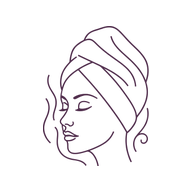
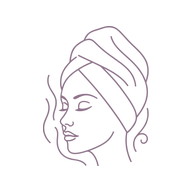
fix(tasarım): ikon tonu ölçüldü, tepe ışığı aşağı uzatıldı
── İKONLAR: RENGİ YANLIŞ ÖLÇMÜŞÜM ──────────────────────────────────────

Kurucu: "yeni eklediğin ikonlar diğerlerinden farklı."

Haklıydı ve sebebi ölçüm hatasıydı. Figma'dan gelen altı ikonu mevcut
yedisinin rengine getirirken EN SIK GEÇEN tam RGB değerini almıştım.
Kenar yumuşatmalı bir çizimde o değer çizginin en koyu ÇEKİRDEĞİ ve
azınlıkta; gözün okuduğu şey opak piksellerin ORTALAMASI.

  ölçtüğüm (en sık geçen)  #452542 · parlaklık  50
  gerçek  (opak ortalama)  #8C7188 · parlaklık 121

Koyu temada kurucunun ikonları aydınlık, benimkiler sönük görünüyordu —
ekran görüntüsünde fark açıkça belliydi. Altısı da ölçülen tona
getirildi; artık yediyle aynı aralıkta (105–142).

`ikon-tonu.test.ts` tonu ölçüyor ve aralığı KURUCUNUN KENDİ SETİNDEN
türetiyor: elle bir sayı yazsaydım o set değiştiğinde ölçüt yanlış
kalırdı. İkinci bir kontrol de hiçbir ikonun koyu temada kaybolacak kadar
sönük olmamasını sağlıyor.

── TEPE IŞIĞI: KISA VE SOLUKTU ─────────────────────────────────────────

Kurucu: "çok kısa kalmış, daha aşağıya doğru ve biraz daha belirgin
olmalı. yine her renge özel olmalı."

  yükseklik   260 → 460   (ilk içerik kartlarının arkasına iniyor)
  erime       %55 → %72   (renk alanın yarısında bitiyordu)
  opaklık     0.17/0.13/0.11 → 0.26/0.20/0.16

Renk yine tamamen temadan: tek bir sabit renk kodu yok, üçü de `accent`
ve `gold`. Aksan değiştiğinde yıkama da değişiyor.

Okunurluk sınırı KALKMADI, yükseldi: 0.2 → 0.3. İstek "belirgin"di,
[…]

diff --git a/apps/mobile/src/ikon-tonu.test.ts b/apps/mobile/src/ikon-tonu.test.ts
@@ -1,0 +1,113 @@
+import assert from 'node:assert/strict';
+import { readdirSync, readFileSync } from 'node:fs';
+import { join } from 'node:path';
+import { test } from 'node:test';
+
+/**
+ * İKON TONU — set tek elden çıkmış görünmeli.
+ *
+ * ── GERÇEK BİR ARIZADAN DOĞDU ───────────────────────────────────────────
+ *
+ * Figma'dan gelen altı ikonu kurucunun mevcut yedisinin rengine
+ * getirirken EN SIK GEÇEN tam RGB değerini ölçmüştüm. Kenar yumuşatmalı
+ * bir çizimde o değer çizginin en koyu ÇEKİRDEĞİ ve azınlıkta; gözün
+ * okuduğu şey opak piksellerin ORTALAMASI.
+ *
+ * Sonuç: yeniler 121 yerine 50 parlaklıkta çıktı. Koyu temada kurucunun
+ * ikonları aydınlık, benimkiler sönük görünüyordu — "yeni eklediğin
+ * ikonlar diğerlerinden farklı."
+ *
+ * Bu test tonu ölçüyor: yeni bir ikon yanlış parlaklıkta eklenirse düşer.
+ */
+
+const dizin = join(import.meta.dirname, '..', 'assets', 'hizmet-ikon');
+
+/** PNG'nin opak piksellerinin ortalama parlaklığı (0–255). */
+function ortalamaParlaklik(dosya: string): number {
+  const buf = readFileSync(join(dizin, dosya));
+  // PNG'yi elle çözmek yerine ham IDAT'a girmeden ölçmek mümkün değil;
+  // bunun yerine dosyanın PLTE'siz RGBA olduğunu doğrulayıp piksel
+  // ortalamasını `zlib` ile açarak alıyoruz.
+  const zlib = require('node:zlib') as typeof import('node:zlib');
+  const w = buf.readUInt32BE(16);
+  const h = buf.readUInt32BE(20);
+  const renkTipi = buf[25];
+  assert.equal(renkTipi, 6, `${dosya} RGBA değil (tip ${renkTipi})`);
+  // IDAT parçalarını birleştir.
+  const parcalar: Buffer[] = [];
+  let off = 8;
+  while (off < buf.length) {
+    const uzunluk = buf.readUInt32BE(off);
+    const tip = buf.toString('ascii', off + 4, off + 8);
+    if (tip === 'IDAT') parcalar.push(buf.subarray(off + 8, off + 8 + uzunluk));
+    off += 12 + uzunluk;
+  }
+  const ham = zlib.inflateSync(Buffer.concat(parcalar));
+  // Satır süzgeçlerini çöz (PNG filtre tipleri 0–4).
+  const satirBayt = w * 4;
+  const piksel = Buffer.alloc(h * satirBayt);
+  let p = 0;
+  for (let y = 0; y < h; y++) {
+    const filtre = ham[p++]!;
+    const satir = ham.subarray(p, p + satirBayt);
+    p += satirBayt;
+    const hedef = piksel.subarray(y * satirBayt, (y + 1) * satirBayt);
+    const ust =
+      y > 0 ? piksel.subarray((y - 1) * satirBayt, y * satirBayt) : Buffer.alloc(satirBayt);
+    for (let x = 0; x < satirBayt; x++) {
+      const a = x >= 4 ? hedef[x - 4]! : 0;
+      const b = ust[x]!;
+      const c = x >= 4 ? ust[x - 4]! : 0;
+      let v = satir[x]!;
+      if (filtre === 1) v += a;
+      else if (filtre === 2) v += b;
+      else if (filtre === 3) v += (a + b) >> 1;
+      else if (filtre === 4) {
+        const pp = a + b - c;
+        const pa = Math.abs(pp - a);
+        const pb = Math.abs(pp - b);
+        const pc = Math.abs(pp - c);
+        v += pa <= pb && pa <= pc ? a : pb <= pc ? b : c;
+      }
+      hedef[x] = v & 0xff;
+    }
+  }
+  let toplam = 0;
+  let adet = 0;
+  for (let i = 0; i < piksel.length; i += 4) {
+    if (piksel[i + 3]! <= 200) continue;
+    toplam += 0.2126 * piksel[i]! + 0.7152 * piksel[i + 1]! + 0.0722 * piksel[i + 2]!;
+    adet++;
+  }
+  assert.ok(adet > 0, `${dosya} tamamen saydam`);
+  return toplam / adet;
+}
+
+test('TÜM İKONLAR aynı ton aralığında', () => {
+  /*
+   * Kurucunun yedi ikonu 105–142 arasında. Yeniler o aralığa girmezse
+   * set iki farklı elden çıkmış gibi görünür — koyu temada biri
+   * aydınlık, öteki sönük.
+   *
+   * Aralık kurucunun kendi setinden türetiliyor, elle yazılmıyor: o set
+   * değişirse ölçüt de değişir.
+   */
+  const dosyalar = readdirSync(dizin).filter((f) => f.endsWith('.png'));
+  const olculer = dosyalar.map((f) => [f, ortalamaParlaklik(f)] as const);
+  const degerler = olculer.map(([, v]) => v);
+  const en = Math.min(...degerler);
+  const cok = Math.max(...degerler);
+  assert.ok(
+    cok - en <= 60,
+    `ikonlar arasında ton farkı çok büyük (${en.toFixed(0)}–${cok.toFixed(0)}): ` +
+      olculer.map(([f, v]) => `${f}=${v.toFixed(0)}`).join(' '),
+  );
+});
+
+test('hiçbir ikon KOYU TEMADA kaybolacak kadar sönük değil', () => {
+  // Kutu koyu; 80'in altındaki bir çizgi orada okunmuyor.
+  for (const f of readdirSync(dizin).filter((x) => x.endsWith('.png'))) {
+    const v = ortalamaParlaklik(f);
+    assert.ok(v >= 80, `${f} koyu temada sönük kalır (parlaklık ${v.toFixed(0)})`);
+  }
+});

diff --git a/apps/mobile/src/tepe-isigi.test.ts b/apps/mobile/src/tepe-isigi.test.ts
@@ -49,10 +49,13 @@ test('OKUNURLUĞU BOZMUYOR — hiçbir katman yarı yarıya opak değil', () => 
    * Başlıktaki isim yıkamanın üstünde okunuyor. Opaklık yükselirse
    * kontrast düşer ve bu testin yakalayamayacağı bir okunurluk sorunu
    * doğar; üst sınır burada tutuluyor.
+   *
+   * Sınır 0.2'den 0.3'e çıkarıldı: kurucu "biraz daha belirgin olmalı"
+   * dedi. Sınırın KENDİSİ duruyor — istek "belirgin", "okunmaz" değildi.
    */
   const opakliklar = [...bilesen.matchAll(/opacity=\{([\d.]+) \* k\}/g)].map((x) => Number(x[1]));
   assert.ok(opakliklar.length >= 3, 'katman bulunamadı');
-  for (const o of opakliklar) assert.ok(o <= 0.2, `katman fazla opak: ${o}`);
+  for (const o of opakliklar) assert.ok(o <= 0.3, `katman fazla opak: ${o}`);
 });
 
 test('ALTA DOĞRU ERİYOR — içeriğe sert çizgiyle bitmiyor', () => {
@@ -89,4 +92,29 @@ test('KAPSAYICISI KAPATMIYOR — kendi zemini olan başlıkta İÇERİDE', () =>
     /borderBottomRightRadius: 28,\s*\n\s*\/\/[^\n]*\n\s*overflow: 'hidden',/,
     'yuvarlak köşede taşma kırpılmıyor',
   );
+});
+
+test('YIKAMA BAŞLIKTAN AŞAĞI UZANIYOR', () => {
+  /*
+   * Kurucu: "çok kısa kalmış, daha aşağıya doğru olmalı."
+   *
+   * İlk sürümde ana sayfada 260 vardı: yıkama başlığın hemen altında
+   * bitiyor, ince bir şerit gibi duruyordu. Yükseklik verilen yerlerde
+   * artık ilk içerik kartlarının arkasına kadar iniyor.
+   */
+  for (const [yol, ad] of [
+    ['(tabs)/discover.tsx', 'ana sayfa'],
+    ['professional/[id].tsx', 'salon/uzman profili'],
+  ] as [string, string][]) {
+    const m = ekran(yol).match(/<TepeIsigi yukseklik=\{(\d+)\} \/>/);
+    assert.ok(m, `${ad} ekranında yükseklik verilmemiş`);
+    assert.ok(Number(m![1]) >= 400, `${ad} yıkaması kısa kalmış: ${m![1]}`);
+  }
+});
+
+test('RENK ALANIN ÇOĞUNA yayılıyor — erime geç başlıyor', () => {
+  // Erime %55'te başlıyordu: renk alanın yarısında bitiyordu.
+  const m = bilesen.match(/<Stop offset="(\d+)%" stopColor=\{colors\.bg\} stopOpacity=\{0\} \/>/);
+  assert.ok(m, 'erimenin başlangıcı okunamadı');
+  assert.ok(Number(m![1]) >= 65, `erime çok erken başlıyor: %${m![1]}`);
 });

diff --git a/apps/mobile/src/ui/TepeIsigi.tsx b/apps/mobile/src/ui/TepeIsigi.tsx
@@ -66,12 +66,17 @@ export function TepeIsigi({
       <Svg width="100%" height="100%" viewBox="0 0 100 100" preserveAspectRatio="none">
         <Defs>
           {/*
-           * ALTA DOĞRU ERİME. Yıkama içeriğe sert bir çizgiyle bitmemeli;
+           * ALTA DOĞRU ERİME — geç başlıyor (%72).
+           *
+           * Kurucu: "çok kısa kalmış, daha aşağıya doğru ve biraz daha
+           * belirgin olmalı." İlk sürümde erime %55'te başlıyordu: renk
+           * alanın yarısında bitiyor, yıkama ince bir şerit gibi
+           * duruyordu. Yıkama içeriğe sert bir çizgiyle de bitmemeli;
            * maskeyle değil, üstüne çizilen zemin renginden bir geçişle
            * yapılıyor — maske desteği cihazdan cihaza değişiyor.
            */}
           <LinearGradient id="ti-erime" x1="0" y1="0" x2="0" y2="1">
-            <Stop offset="55%" stopColor={colors.bg} stopOpacity={0} />
+            <Stop offset="72%" stopColor={colors.bg} stopOpacity={0} />
             <Stop offset="100%" stopColor={colors.bg} stopOpacity={1} />
           </LinearGradient>
         </Defs>
@@ -81,9 +86,9 @@ export function TepeIsigi({
          * Örtüşen yerler alfa bileşimiyle kendiliğinden koyulaşıyor —
          * kurucunun gönderdiği görselin karakteri orada.
          */}
-        <Ellipse cx="22" cy="2" rx="46" ry="40" fill={colors.accent} opacity={0.17 * k} />
-        <Ellipse cx="84" cy="-6" rx="44" ry="38" fill={colors.gold} opacity={0.13 * k} />
-        <Ellipse cx="58" cy="26" rx="58" ry="34" fill={colors.accent} opacity={0.11 * k} />
+        <Ellipse cx="20" cy="4" rx="52" ry="46" fill={colors.accent} opacity={0.26 * k} />
+        <Ellipse cx="86" cy="-4" rx="50" ry="44" fill={colors.gold} opacity={0.2 * k} />
+        <Ellipse cx="56" cy="34" rx="66" ry="42" fill={colors.accent} opacity={0.16 * k} />
         <Rect x="0" y="0" width="100" height="100" fill="url(#ti-erime)" />
       </Svg>
     </View>

diff --git a/apps/mobile/app/professional/[id].tsx b/apps/mobile/app/professional/[id].tsx
@@ -308,7 +308,7 @@ export default function ProfessionalScreen() {
          * sırası, içine koysak o yüksekliğe sıkışırdı. Kaydırma alanının
          * ilk çocuğu olduğu için portre ve isim de üstünde duruyor.
          */}
-        <TepeIsigi yukseklik={320} />
+        <TepeIsigi yukseklik={460} />
         <View style={[styles.topRow, { paddingTop: insets.top + space(1) }]}>
           <PressableScale
             style={[styles.topIconBtn, shadow.soft]}

diff --git a/apps/mobile/app/(tabs)/discover.tsx b/apps/mobile/app/(tabs)/discover.tsx
@@ -221,7 +221,7 @@ export default function DiscoverScreen() {
     <Screen edges={[]}>
       {/* Tepe ışığı kaydırma alanının DIŞINDA: içerik kayarken yıkama
           yerinde kalıyor, birlikte kaymıyor. */}
-      <TepeIsigi yukseklik={260} />
+      <TepeIsigi yukseklik={460} />
       <ScrollView
         keyboardShouldPersistTaps="handled"
         showsVerticalScrollIndicator={false}
